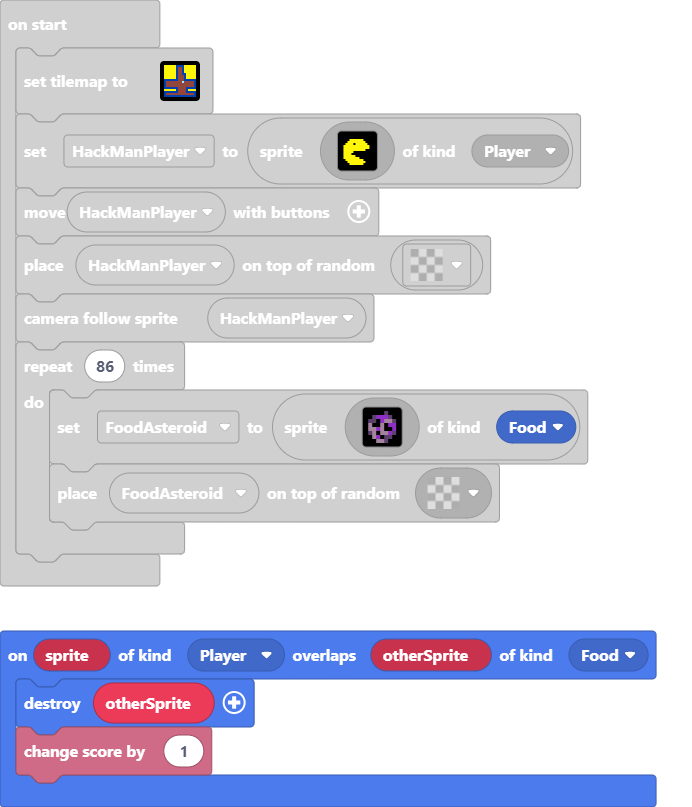
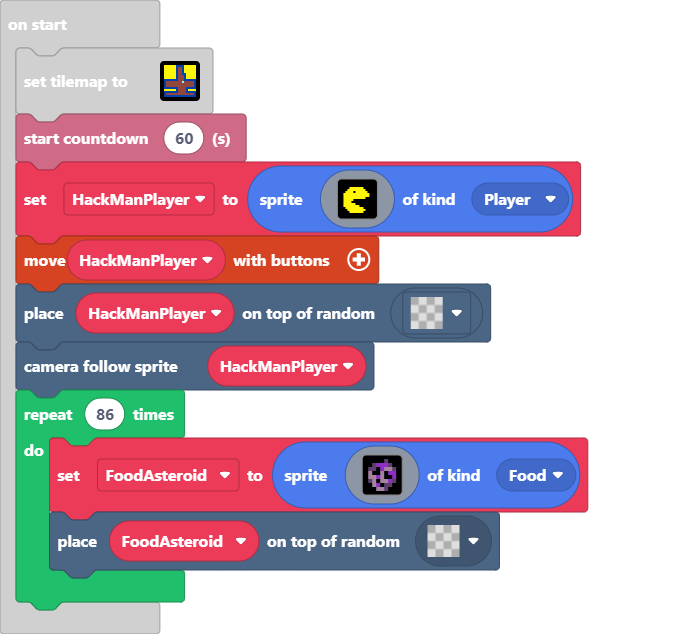
Added Start countdown 60

diff --git a/main.ts b/main.ts
@@ -123,6 +123,7 @@ tiles.setTilemap(tiles.createTilemap(
             [myTiles.tile0,myTiles.tile1,myTiles.tile2,myTiles.tile3,myTiles.tile4],
             TileScale.Sixteen
         ))
+info.startCountdown(60)
 let HackManPlayer = sprites.create(img`
 . . . . . . . . . . . . . . . . 
 . . . . . . . . . . . . . . . . 
